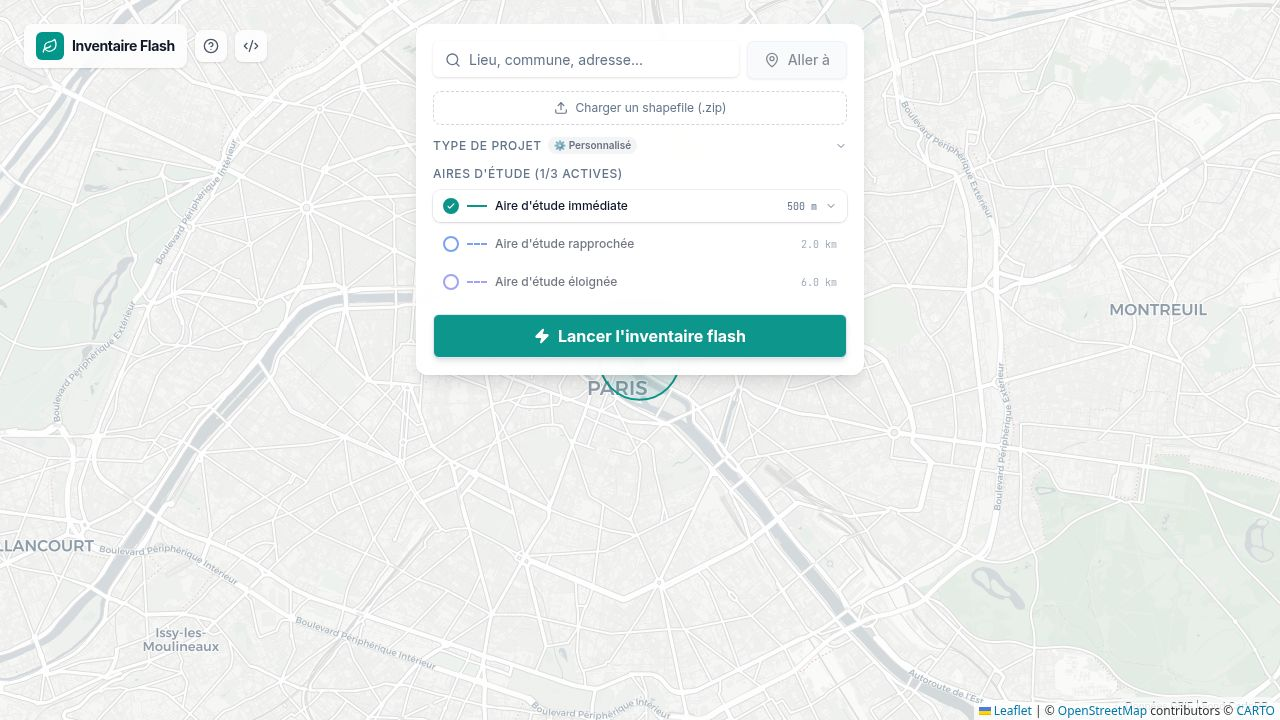
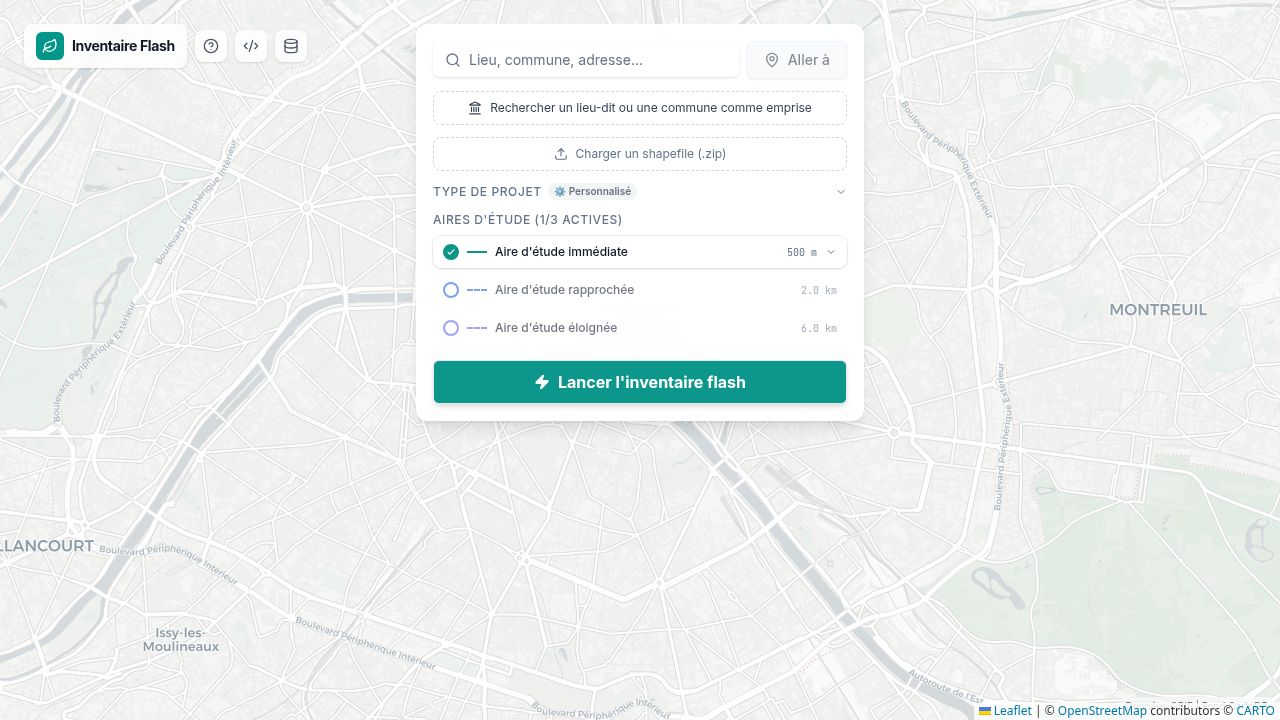
Add ability to search for communes and locations
Update dialog and panel components to support searching for both lieu-dits and communes, including corresponding API route updates to accommodate the expanded search functionality.

Replit-Commit-Author: Agent
Replit-Commit-Session-Id: 968372e9-546c-41ac-8a1b-b525197c030f
Replit-Commit-Checkpoint-Type: full_checkpoint
Replit-Commit-Event-Id: 6ef409a6-6923-41f7-b830-7e906d489c59
Replit-Commit-Screenshot-Url: https://storage.googleapis.com/screenshot-production-us-central1/762f6950-69ba-4f59-9f99-7a8aaf2ae693/968372e9-546c-41ac-8a1b-b525197c030f/z0TeRKN
Replit-Helium-Checkpoint-Created: true

Changed region(s): [[0.3125, 0.1833, 0.6875, 0.6111], [0.375, 0.1222, 0.625, 0.1528]]

diff --git a/client/src/components/LieuxDitsDialog.tsx b/client/src/components/LieuxDitsDialog.tsx
@@ -36,6 +36,11 @@ const TYPE_LABEL: Record<string, string> = {
   village: "Village",
   suburb: "Faubourg",
   allotments: "Jardins",
+  city: "Ville",
+  town: "Commune",
+  municipality: "Commune",
+  administrative: "Commune",
+  boundary: "Limite administrative",
 };
 
 function bboxToBounds(bbox: [number, number, number, number]): [[number, number], [number, number]] {
@@ -92,12 +97,12 @@ export function LieuxDitsDialog({ open, onOpenChange, onSelectPolygon, onSelectP
         <DialogHeader>
           <DialogTitle className="flex items-center gap-2">
             <MapPin className="h-5 w-5 text-teal-600" />
-            Rechercher un lieu-dit
+            Rechercher un lieu-dit ou une commune
           </DialogTitle>
           <DialogDescription>
-            Trouvez un hameau, lieu-dit, ferme ou quartier. Si OpenStreetMap dispose
-            de son contour, il sera utilisé comme emprise du projet ; sinon les aires
-            d'étude seront centrées sur le point.
+            Trouvez un hameau, lieu-dit, ferme, quartier ou commune. Si OpenStreetMap
+            dispose de son contour (souvent le cas pour les communes), il sera utilisé
+            comme emprise du projet ; sinon les aires d'étude seront centrées sur le point.
           </DialogDescription>
         </DialogHeader>
 
@@ -108,7 +113,7 @@ export function LieuxDitsDialog({ open, onOpenChange, onSelectPolygon, onSelectP
               type="text"
               value={query}
               onChange={(e) => setQuery(e.target.value)}
-              placeholder="ex : Le Bois du Cerf, La Croix Rouge…"
+              placeholder="ex : Moustoir-Ac, Le Bois du Cerf, Lille…"
               className="w-full pl-9 pr-3 py-2 text-sm border border-gray-200 rounded-lg focus:outline-none focus:ring-2 focus:ring-teal-500/30 focus:border-teal-500"
               data-testid="input-lieu-dit-query"
               autoFocus
@@ -132,7 +137,7 @@ export function LieuxDitsDialog({ open, onOpenChange, onSelectPolygon, onSelectP
           )}
           {results && results.length === 0 && (
             <div className="text-center py-8 text-sm text-gray-500">
-              Aucun lieu-dit trouvé. Essayez une orthographe différente.
+              Aucun lieu-dit ni commune trouvé. Essayez une orthographe différente.
             </div>
           )}
           <div className="space-y-2">

diff --git a/server/routes.ts b/server/routes.ts
@@ -196,10 +196,16 @@ export async function registerRoutes(
       const PLACE_TYPES = new Set([
         "hamlet", "isolated_dwelling", "farm", "locality", "neighbourhood",
         "quarter", "village", "suburb", "allotments",
+        "city", "town", "municipality", "administrative",
       ]);
+      const ADMIN_TYPES = new Set(["administrative", "boundary"]);
 
       const results = (Array.isArray(data) ? data : [])
-        .filter((r: any) => r.class === "place" && PLACE_TYPES.has(r.type))
+        .filter((r: any) => {
+          if (r.class === "place" && PLACE_TYPES.has(r.type)) return true;
+          if (r.class === "boundary" && ADMIN_TYPES.has(r.type)) return true;
+          return false;
+        })
         .map((r: any) => {
           const lat = parseFloat(r.lat);
           const lng = parseFloat(r.lon);

diff --git a/client/src/components/SearchPanel.tsx b/client/src/components/SearchPanel.tsx
@@ -91,7 +91,7 @@ export function SearchPanel({
           data-testid="button-open-lieux-dits"
         >
           <Landmark className="h-3.5 w-3.5" />
-          Rechercher un lieu-dit comme emprise
+          Rechercher un lieu-dit ou une commune comme emprise
         </button>
 
         <div className="space-y-1">
